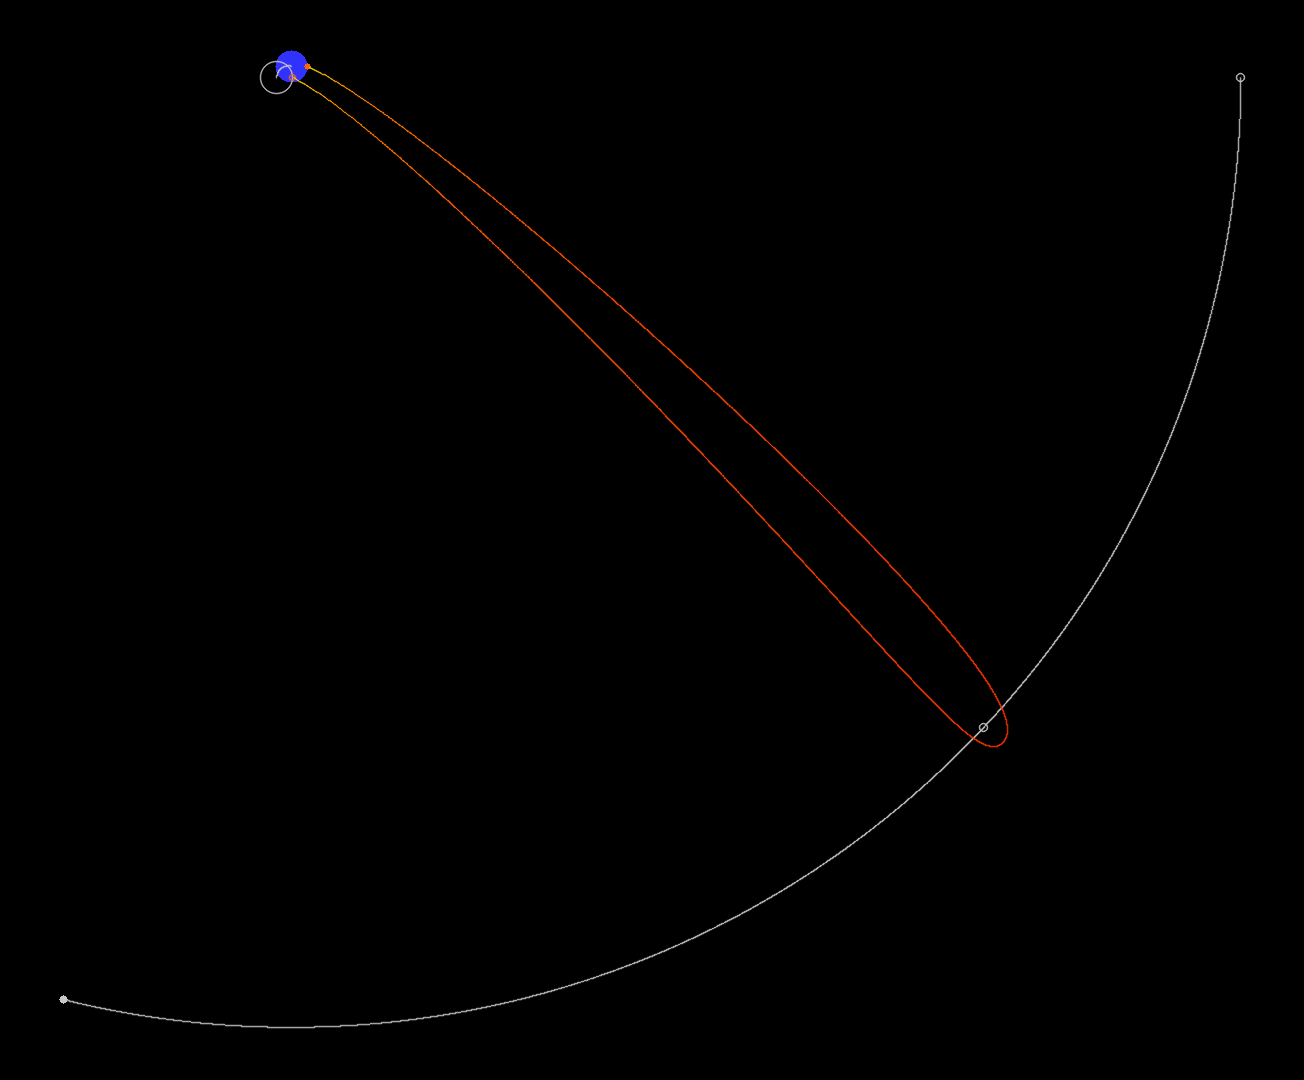
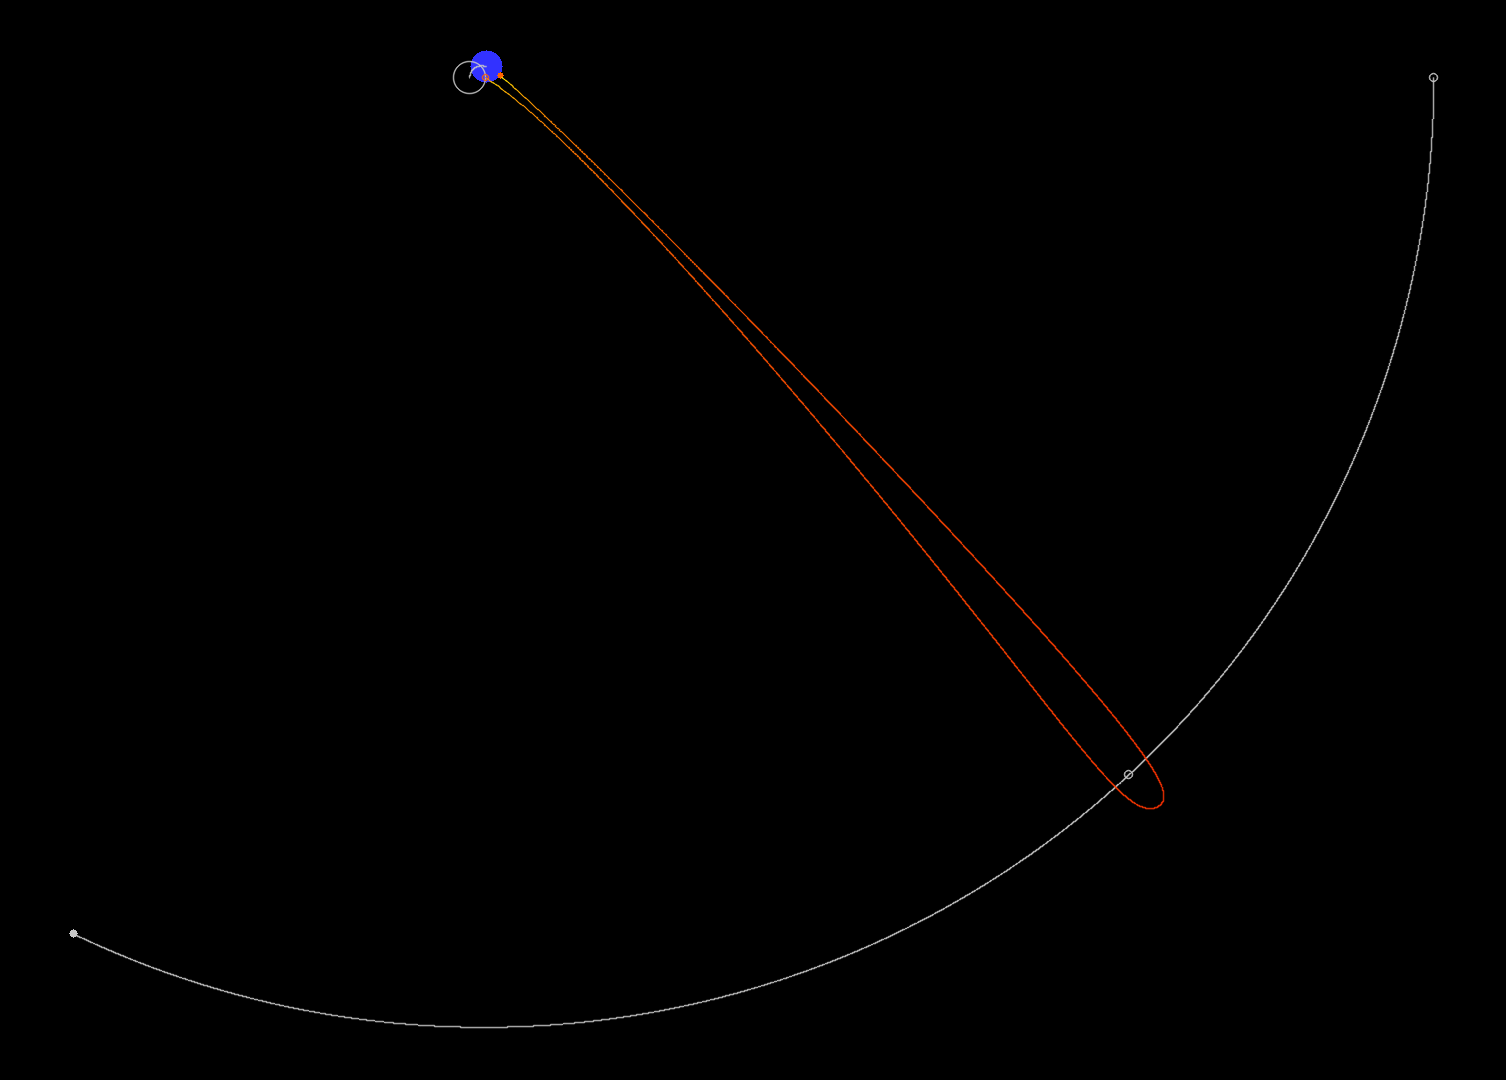
fix bugs

diff --git a/src/froggy.cpp b/src/froggy.cpp
@@ -145,7 +145,7 @@ void draw( cv::Mat& buffer, const Coordinates& center, const double radius, cons
     const int x = view_port.origin.x() + std::roundl( center.x.x() * view_port.zoom );
     const int y = view_port.origin.y() + std::roundl( center.x.y() * view_port.zoom );
     const int r = std::max< int >( std::roundl( radius * view_port.zoom ), 3 );
-    cv::circle( buffer, cv::Point( x, y ), r, color, thickness, line_type, 0 );
+    cv::circle( buffer, cv::Point2i( x, y ), r, color, thickness, line_type, 0 );
 }
 
 void draw( cv::Mat& buffer, const Body& body, const cv::Scalar& color, const ViewPort& view_port,
@@ -162,7 +162,7 @@ void draw( cv::Mat& buffer, const std::vector< Coordinates >& trajectory, const 
         const int y0 = view_port.origin.y() + std::roundl( trajectory[ k - stride ].x.y() * view_port.zoom );
         const int x1 = view_port.origin.x() + std::roundl( trajectory[ k ].x.x() * view_port.zoom );
         const int y1 = view_port.origin.y() + std::roundl( trajectory[ k ].x.y() * view_port.zoom );
-        cv::line( buffer, cv::Point2d( x0, y0 ), cv::Point2d( x1, y1 ), color, 1, line_type );
+        cv::line( buffer, cv::Point2i( x0, y0 ), cv::Point2i( x1, y1 ), color, 1, line_type );
     }
 }
 
@@ -179,7 +179,7 @@ void draw( cv::Mat& buffer, const std::vector< Coordinates >& trajectory, const 
 
         const double v     = 0.5 * ( trajectory[ k ].v + trajectory[ k - stride ].v ).norm();
         const auto   color = lerp( ( v - v_lo ) / ( v_hi - v_lo ), color_lo, color_hi );
-        cv::line( buffer, cv::Point2d( x0, y0 ), cv::Point2d( x1, y1 ), color, 1, line_type );
+        cv::line( buffer, cv::Point2i( x0, y0 ), cv::Point2i( x1, y1 ), color, 1, line_type );
     }
 }
 
@@ -187,14 +187,15 @@ template < std::size_t N >
 std::array< Eigen::Vector2d, N > gravitational_acceleration( const std::array< Body, N >& bodies ) {
     std::array< Eigen::Vector2d, N > result;
 
-    for ( unsigned i = 0; i < bodies.size(); ++i ) {
+    for ( unsigned i = 0; i < N; ++i ) {
         result[ i ] = { 0., 0. };
-        for ( unsigned k = 0; k < bodies.size(); ++k ) {
-            if ( i == k ) {
-                continue;
-            }
-            const auto r = bodies[ k ].coordinates.x - bodies[ i ].coordinates.x;
-            result[ i ] += G * r.normalized() * bodies[ k ].mass / r.squaredNorm();
+        for ( unsigned k = 0; k < i; ++k ) {
+            const auto x = bodies[ k ].coordinates.x - bodies[ i ].coordinates.x;
+            const auto l = x.norm();
+            const auto n = G * x / ( l * l * l );
+
+            result[ i ] += n * bodies[ k ].mass;
+            result[ k ] -= n * bodies[ i ].mass;
         }
     }
 
@@ -206,10 +207,10 @@ Eigen::Vector2d thrust( const double initial_rocket_mass, const double rocket_la
     double k = 0.;
     double m = initial_rocket_mass;
     for ( const auto& stage : stages ) {
-        const auto a = m - stage.mass / stage.duration * ( t - k );
         k += stage.duration;
         m -= stage.mass;
         if ( t < k ) {
+            const auto               a = m - stage.mass / stage.duration * ( t - k );
             const Eigen::Rotation2Dd rot{ rocket_launch_tilt };
             const auto               r = moon.coordinates.x - rocket.coordinates.x;
             return stage.thrust / a * ( rot * r.normalized() );
@@ -222,16 +223,17 @@ Eigen::Vector2d thrust( const double initial_rocket_mass, const double rocket_la
 
 template < std::size_t N >
 void leap_frog( std::array< Body, N >& bodies, const double initial_rocket_mass, const double rocket_launch_tilt,
-                const std::vector< Stage >& stages, const double t, const double dt ) {
+                const double thrust_shutdown_time, const std::vector< Stage >& stages, const double t,
+                const double dt ) {
     std::array< Body, N > half_step = bodies;
 
     auto g = gravitational_acceleration( bodies );
 
     Eigen::Vector2d acc;
     for ( unsigned k = 0; k < N; ++k ) {
-        acc = g[ k ] +
-              ( ( k == 0 ) ? thrust( initial_rocket_mass, rocket_launch_tilt, stages, bodies[ 0 ], bodies[ 2 ], t )
-                           : Eigen::Vector2d{ 0., 0. } );
+        acc = g[ k ] + ( ( k == 0 && t < thrust_shutdown_time ) ? thrust( initial_rocket_mass, rocket_launch_tilt,
+                                                                          stages, bodies[ 0 ], bodies[ 2 ], t )
+                                                                : Eigen::Vector2d{ 0., 0. } );
         half_step[ k ].coordinates.v = bodies[ k ].coordinates.v + acc * 0.5 * dt;
         half_step[ k ].coordinates.x = bodies[ k ].coordinates.x + half_step[ k ].coordinates.v * 0.5 * dt;
     }
@@ -240,9 +242,9 @@ void leap_frog( std::array< Body, N >& bodies, const double initial_rocket_mass,
 
     for ( unsigned k = 0; k < N; ++k ) {
         bodies[ k ].coordinates.x = half_step[ k ].coordinates.x + half_step[ k ].coordinates.v * 0.5 * dt;
-        acc                       = g[ k ] +
-              ( ( k == 0 ) ? thrust( initial_rocket_mass, rocket_launch_tilt, stages, bodies[ 0 ], bodies[ 2 ], t )
-                           : Eigen::Vector2d{ 0., 0. } );
+        acc = g[ k ] + ( ( k == 0 && t < thrust_shutdown_time ) ? thrust( initial_rocket_mass, rocket_launch_tilt,
+                                                                          stages, bodies[ 0 ], bodies[ 2 ], t )
+                                                                : Eigen::Vector2d{ 0., 0. } );
         bodies[ k ].coordinates.v = half_step[ k ].coordinates.v + acc * 0.5 * dt;
         bodies[ k ].coordinates.a = acc;
     }
@@ -273,20 +275,25 @@ public:
                                          circumference( cos( tilt_earth_axis + tilt_lunar_plane ) * earth.radius ) /
                                                  ( 24. * 3600. ) };
 
+        const double ariane_boost = 5.024;
+
         Stage booster_stage;
-        booster_stage.thrust   = 12.803 * 4'000'000;
+        booster_stage.thrust   = ariane_boost * 4'000'000;
         booster_stage.duration = 130.;
         booster_stage.mass     = 270'000;
+        thrust_shutdown_time += booster_stage.duration;
 
         Stage main_stage;
-        main_stage.thrust   = 12.803 * 1'180'000;
+        main_stage.thrust   = ariane_boost * 1'180'000;
         main_stage.duration = 605.;
         main_stage.mass     = 170'500;
+        thrust_shutdown_time += main_stage.duration;
 
         Stage upper_stage;
-        main_stage.thrust   = 12.803 * 27'000;
-        main_stage.duration = 1100.;
-        main_stage.mass     = 10'900;
+        upper_stage.thrust   = ariane_boost * 27'000;
+        upper_stage.duration = 1100.;
+        upper_stage.mass     = 10'900;
+        thrust_shutdown_time += upper_stage.duration;
 
         stages.push_back( std::move( booster_stage ) );
         stages.push_back( std::move( main_stage ) );
@@ -383,7 +390,7 @@ public:
 
     bool integrate() {
         std::array< Body, 3 > bodies{ rocket, earth, moon };
-        leap_frog( bodies, initial_rocket_mass, rocket_launch_tilt, stages, t, dt );
+        leap_frog( bodies, initial_rocket_mass, rocket_launch_tilt, thrust_shutdown_time, stages, t, dt );
         update_trajectory_lengths( bodies );
         rocket = bodies[ 0 ];
         earth  = bodies[ 1 ];
@@ -402,11 +409,12 @@ public:
     std::string str() {
         std::stringstream s;
 
-        s << fmt::format( "Iterations               : {}\n", k );
-        s << fmt::format( "Simulation duration      : {:1.3f}s\n",
-                          0.001 * std::chrono::duration_cast< std::chrono::milliseconds >(
+        double duration = 0.001 * std::chrono::duration_cast< std::chrono::milliseconds >(
                                           std::chrono::system_clock::now() - stats.simulation_start )
-                                          .count() );
+                                          .count();
+
+        s << fmt::format( "Iterations               : {} ({:1.3f}/s)\n", k, k / duration );
+        s << fmt::format( "Simulation duration      : {:1.3f}s\n", duration );
 
         s << fmt::format( "Flight duration          : {:1.2f}s ({:1.2f}d)\n", t, t / 24. / 3600. );
 
@@ -416,7 +424,7 @@ public:
                           stats.highest_velocity * 3.6 );
         s << fmt::format( "Lowest acceleration      : {:1.2f}m/s^2 ({:1.2f}g)\n", stats.lowest_acceleration,
                           stats.lowest_acceleration / 9.81 );
-        s << fmt::format( "Hightest velocity        : {:1.2f}m/s^2 ({:1.2f}g)\n", stats.highest_acceleration,
+        s << fmt::format( "Hightest acceleration    : {:1.2f}m/s^2 ({:1.2f}g)\n", stats.highest_acceleration,
                           stats.highest_acceleration / 9.81 );
 
         s << fmt::format( "Rocket trajectory length : {:1.3f}km\n", 0.001 * stats.rocket_orbit_length );
@@ -429,8 +437,9 @@ public:
 public:
     ViewPort view_port{};
 
-    double initial_rocket_mass = 0.;    // kilogram
-    double rocket_launch_tilt  = 0.;    // radians
+    double initial_rocket_mass  = 0.;    // kilogram
+    double rocket_launch_tilt   = 0.;    // radians
+    double thrust_shutdown_time = 0.;    // seconds
 
     Body                 rocket;
     Body                 earth;

diff --git a/README.md b/README.md
@@ -28,20 +28,20 @@ A moon shot could look like this. The Earth is blue, the Rocket is orange and th
 ![moon shot](/moon_shot.png)
 
 ```
-[2020-04-23 13:46:22.155] [info] Starting simulation ...
-[2020-04-23 13:46:34.123] [info] width x height : 1304 x 1080
-[2020-04-23 13:46:34.123] [info] origin         : 288, 77
-[2020-04-23 13:46:34.123] [info] Rendering orbits ...
-[2020-04-23 13:46:34.123] [info] Please find the diagram at /.../moon_shot.png
-[2020-04-23 13:46:34.156] [info] Flight stats:
-Iterations               : 67827640
-Simulation duration      : 12.001s
-Flight duration          : 678276.40s (7.85d)
-Lowest velocity          : 252.17m/s (907.83km/h)
-Hightest velocity        : 11084.68m/s (39904.83km/h)
+[2020-04-23 19:31:39.085] [info] Starting simulation ...
+[2020-04-23 19:31:48.178] [info] width x height : 1506px x 1080px
+[2020-04-23 19:31:48.178] [info] origin         : 481px, 77px
+[2020-04-23 19:31:48.178] [info] Rendering orbits ...
+[2020-04-23 19:31:48.178] [info] Please find the diagram at /home/.../froggy/build/moon_shot.png
+[2020-04-23 19:31:48.217] [info] Flight stats:
+Iterations               : 75489569 (8267393.385/s)
+Simulation duration      : 9.131s
+Flight duration          : 754895.69s (8.74d)
+Lowest velocity          : 138.41m/s (498.28km/h)
+Hightest velocity        : 11085.95m/s (39909.43km/h)
 Lowest acceleration      : 0.00m/s^2 (0.00g)
-Hightest velocity        : 98.81m/s^2 (10.07g)
-Rocket trajectory length : 785855.554km
-Earth trajectory length  : 8445.041km
-Moon trajectory length   : 686414.233km
+Hightest acceleration    : 33.21m/s^2 (3.39g)
+Rocket trajectory length : 795888.745km
+Earth trajectory length  : 9401.295km
+Moon trajectory length   : 764138.733km
 ```
